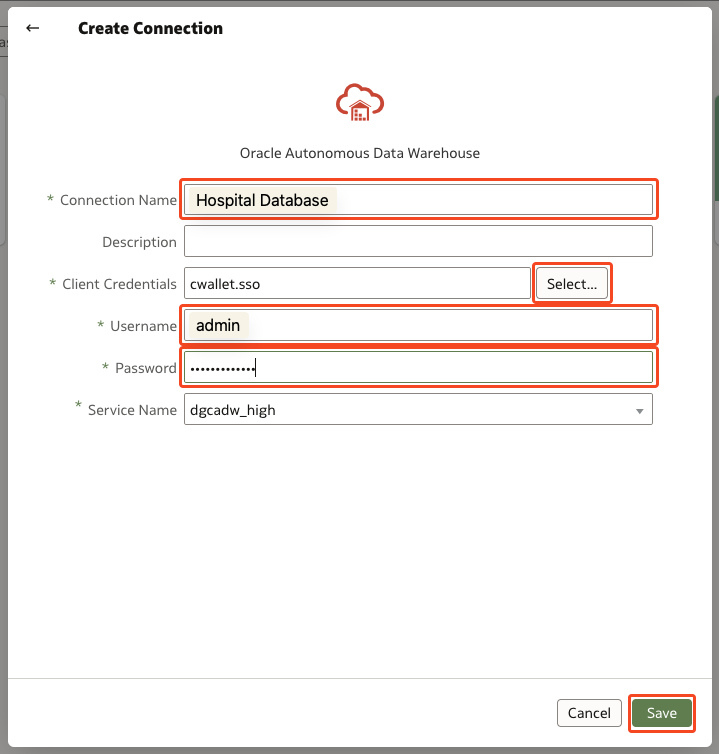
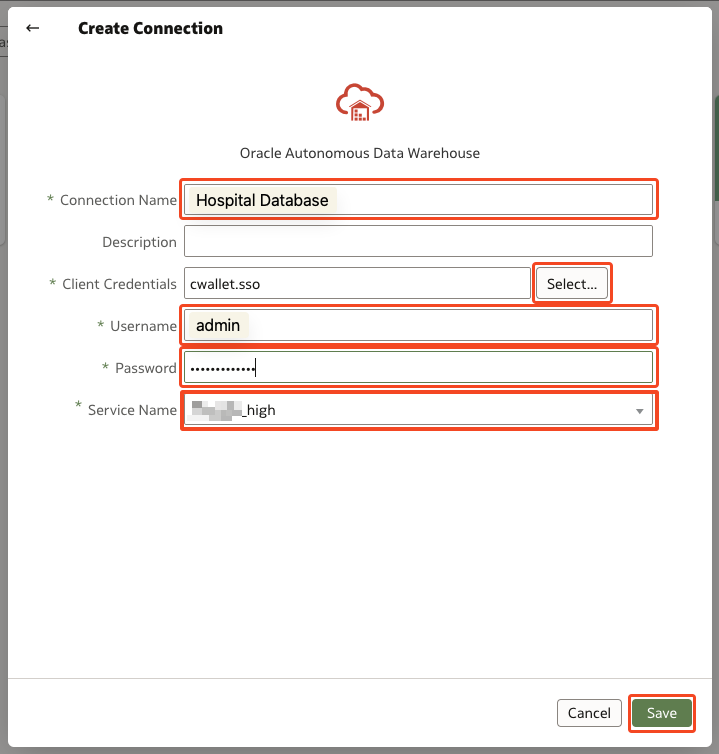
Task 3 Complete

Changed region(s): [[0.2448, 0.5186, 0.9179, 0.5796]]

diff --git a/applied-developer-course/lab9-oracleanalyticscloud/oracleanalyticscloud.md b/applied-developer-course/lab9-oracleanalyticscloud/oracleanalyticscloud.md
@@ -150,37 +150,40 @@ In this task, you will navigate to the Autonomous Data Warehouse (ADW) cloud con
 
 1. Navigate to the **Analytics Home Page** and select **Create**
 
-    ![OAC Home](./images/Task-2/1-analytics-home.png)
+    ![OAC Home](./images/Task-3/1-analytics-home.png)
 
-2. We will be creating a new **Connection** 
+2. We will be creating a new data source connection: **Create** > **Connection** 
 
-    ![Create Connection](./images/Task-2/2-create-connection.png)
+    ![Create Connection](./images/Task-3/2-create-connection.png)
 
-3. There are many connection types available to OAC, but today we will connect to the **Oracle Autonomous Data Warehouse**.
+3. There are many connection types available to OAC, from , but today we will connect to the **Oracle Autonomous Data Warehouse**.
 
-    ![Select ADW](./images/Task-2/3-select-adw.png)
+    ![Select ADW](./images/Task-3/3-select-adw.png)
 
-4. Enter the database details as below
+4. Enter the database details as below and select **Save**
 
-    ![Select ADW](./images/Task-2/4-db-detail.png)
+    ![Select ADW](./images/Task-3/4-db-detail.png)
 
-    - **Connection Name**: `Hospital Database`
-        ```
-        <copy>Hospital Database</copy>
-        ```
+    - **Connection Name**: *`Hospital Database`*
 
     - **Description**: &lt;Optional&gt;
        
-    - **Client Credentials**: Click `Select` and Choose from File your Database Wallet, as gathered in Step 1 of this Task.
-    - **Feature Set**: Enterprise Analytics (important)
+    - **Client Credentials**: 
+        - Click **Select** and browse your file system for the ADW Wallet (name format is '**Wallet_dbname.zip**'. This is the wallet file that you downloaded in the previous task).
     
-    - **Capacity**: 1 - Non Production
+    - **Username**: *admin*
     
-    - **License Type**: License Included "Subscribe to a new Analytics Cloud software > license and the Analytics Cloud." (You will use this service as part of the free Oracle Cloud trial that you requested for this workshop).
+    - **Password**: Enter the *password* you created to download your ADW Wallet file
+    
+    - **Service Name**: *dbname_high*
 
-    - **Edition**: Enterprise Edition "Deploy an instance with enterprise modeling, reporting, and data visualization"
+5. For future reference to the Connections list, navigate through the **hamburger menu** and select **Data**. From the data page, select **Connections**
 
-5. 
+    ![Menu > Data](images/Task-3/5-1menu-data.png)
+    
+    ![Connections](images/Task-3/5-2connections.png)
+
+    See that the **Hospital Database** is listed under Connections.
 
 ## Task 4: Create Data Mapping Between ADW Tables in OAC
 
